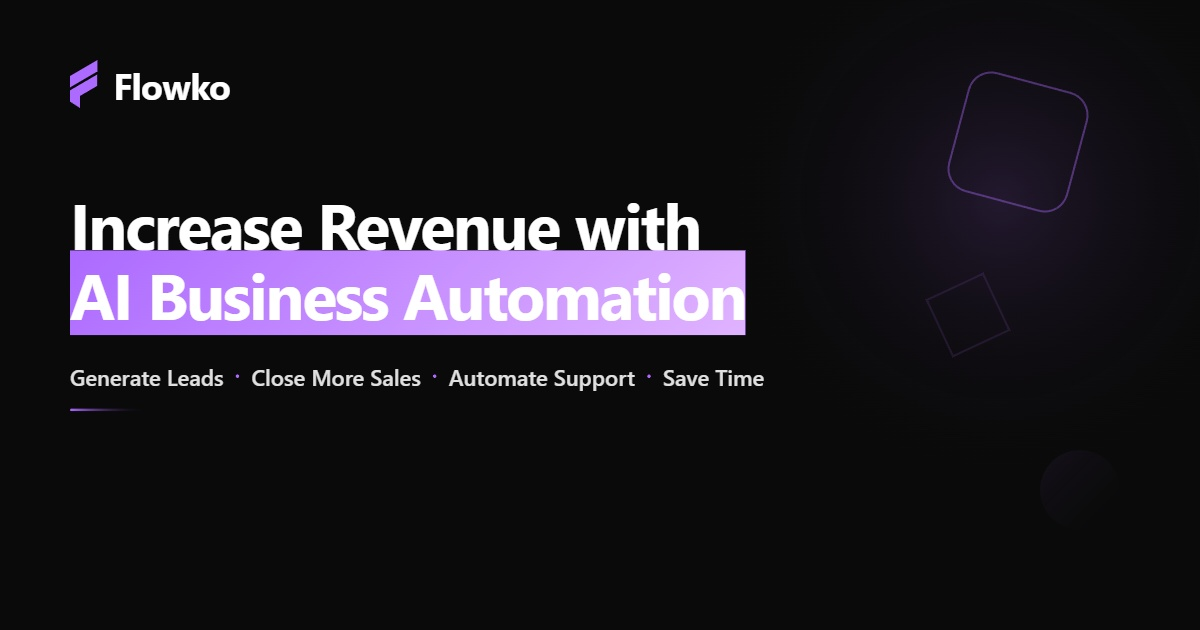
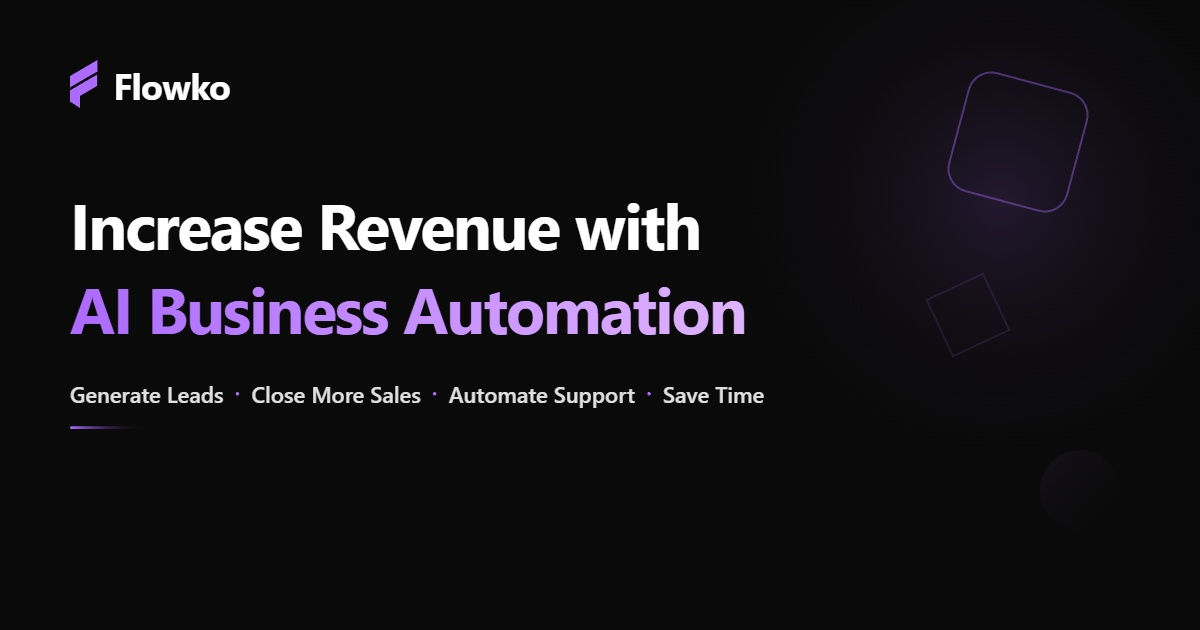
Refactor headline styling in generate-images.html to use SVG for gradient text rendering and update og-image.jpg for improved visual assets.

Changed region(s): [[0.0308, 0.3921, 0.6475, 0.5429], [0.0617, 0.573, 0.6475, 0.6937]]

diff --git a/public/generate-images.html b/public/generate-images.html
@@ -157,14 +157,6 @@
             letter-spacing: -0.03em;
         }
 
-        #og-image .headline .gradient-text {
-            background: linear-gradient(135deg, #AC6AFF 0%, #E0B3FF 100%);
-            -webkit-background-clip: text;
-            background-clip: text;
-            -webkit-text-fill-color: transparent;
-            display: inline;
-        }
-
         /* Subtitle with Benefits */
         #og-image .subtitle-container {
             display: flex;
@@ -330,7 +322,15 @@
                     <div class="main-content">
                         <h1 class="headline">
                             Increase Revenue with<br>
-                            <span class="gradient-text">AI Business Automation</span>
+                            <svg width="100%" height="80" viewBox="0 0 900 80" style="display: block; margin-top: 8px;">
+                                <defs>
+                                    <linearGradient id="textGradient" x1="0%" y1="0%" x2="100%" y2="0%">
+                                        <stop offset="0%" style="stop-color:#AC6AFF;stop-opacity:1" />
+                                        <stop offset="100%" style="stop-color:#E0B3FF;stop-opacity:1" />
+                                    </linearGradient>
+                                </defs>
+                                <text x="0" y="60" font-size="64" font-weight="700" fill="url(#textGradient)" font-family="'Sora', -apple-system, BlinkMacSystemFont, 'Segoe UI', Roboto, sans-serif" letter-spacing="-0.03em">AI Business Automation</text>
+                            </svg>
                         </h1>
 
                         <!-- Benefits Row -->
